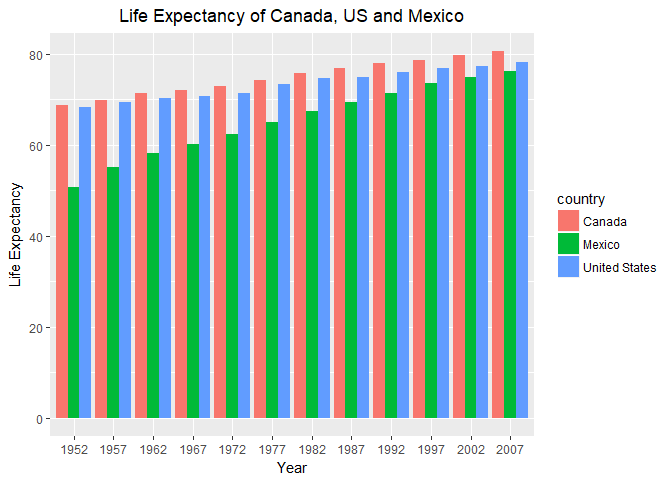
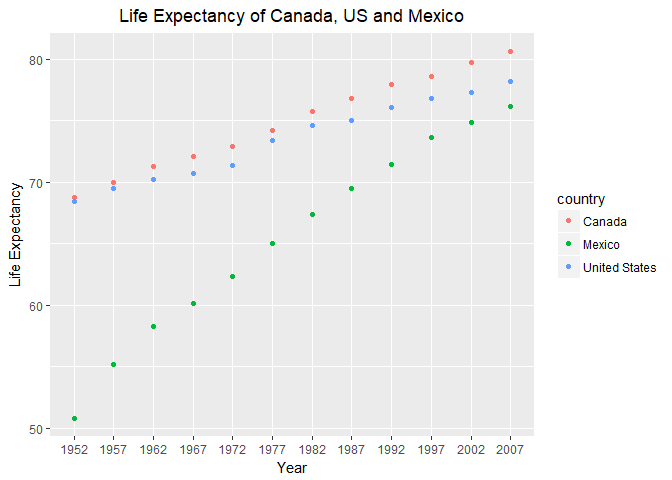
32nd Commit from RStudio

diff --git a/hw04/hw04.md b/hw04/hw04.md
@@ -12,6 +12,7 @@ I chose three questions in the reshaping part and two questinos in the join data
 
     -   The order of `x` and `y` in the `XXX_join`. This problem was solved by reading online documents, which are provided below. Although I understand it in class, I was still confuzed a bit when doing this homework.
     -   Difference between `gather()`, `spread()`, `union()`. I tried to read the build-in documentation in RStudio but it was difficult to understand. The websites below helped me a lot. The most important part for me is the `key` and `value` in the function and how they work.
+    -   In order to make sure my understanding of join was correct, I also reviewed all lecture notes and reprodued all resullts by myself.
 
 2.  Useful resources
 
@@ -73,7 +74,9 @@ Make a tibble with one row per year and columns for life expectancy for two or m
 
 Answer:
 
-Here I would like to select the following three countries: Canada, USA and Mexico, and reshape the table. From the figure, we can see that the life expectancy of these three countries are increasing over year. But Canada always has the highest life expectancy while Mexico has the lowest value.
+Here I would like to select the following three countries: Canada, USA and Mexico, and reshape the table. Both barplot and scatterplot are used to show the difference.
+
+From the figure, we can see that the life expectancy of these three countries are increasing over year. But Canada always has the highest life expectancy while Mexico has the lowest value.
 
 ``` r
 # Select data and reshape the table
@@ -129,12 +132,22 @@ kable(a2, format = "pandoc",digits = 2, align="c", padding = 5,
 # Plot
 a2 %>%
         ggplot(aes(x=factor(year), y=Value)) +
-        geom_bar(aes(fill=country),stat='identity', position='dodge') +
+        geom_point(aes(color=country)) +
         labs(x="Year",y="Life Expectancy", title="Life Expectancy of Canada, US and Mexico") +
         theme(plot.title = element_text(hjust=0.5))
 ```
 
 ![](hw04_files/figure-markdown_github-ascii_identifiers/unnamed-chunk-2-1.png)
+
+``` r
+a2 %>%
+        ggplot(aes(x=factor(year), y=Value)) +
+        geom_bar(aes(fill=country),stat='identity', position='dodge') +
+        labs(x="Year",y="Life Expectancy", title="Life Expectancy of Canada, US and Mexico") +
+        theme(plot.title = element_text(hjust=0.5))
+```
+
+![](hw04_files/figure-markdown_github-ascii_identifiers/unnamed-chunk-2-2.png)
 
 Activity \#2
 ------------
